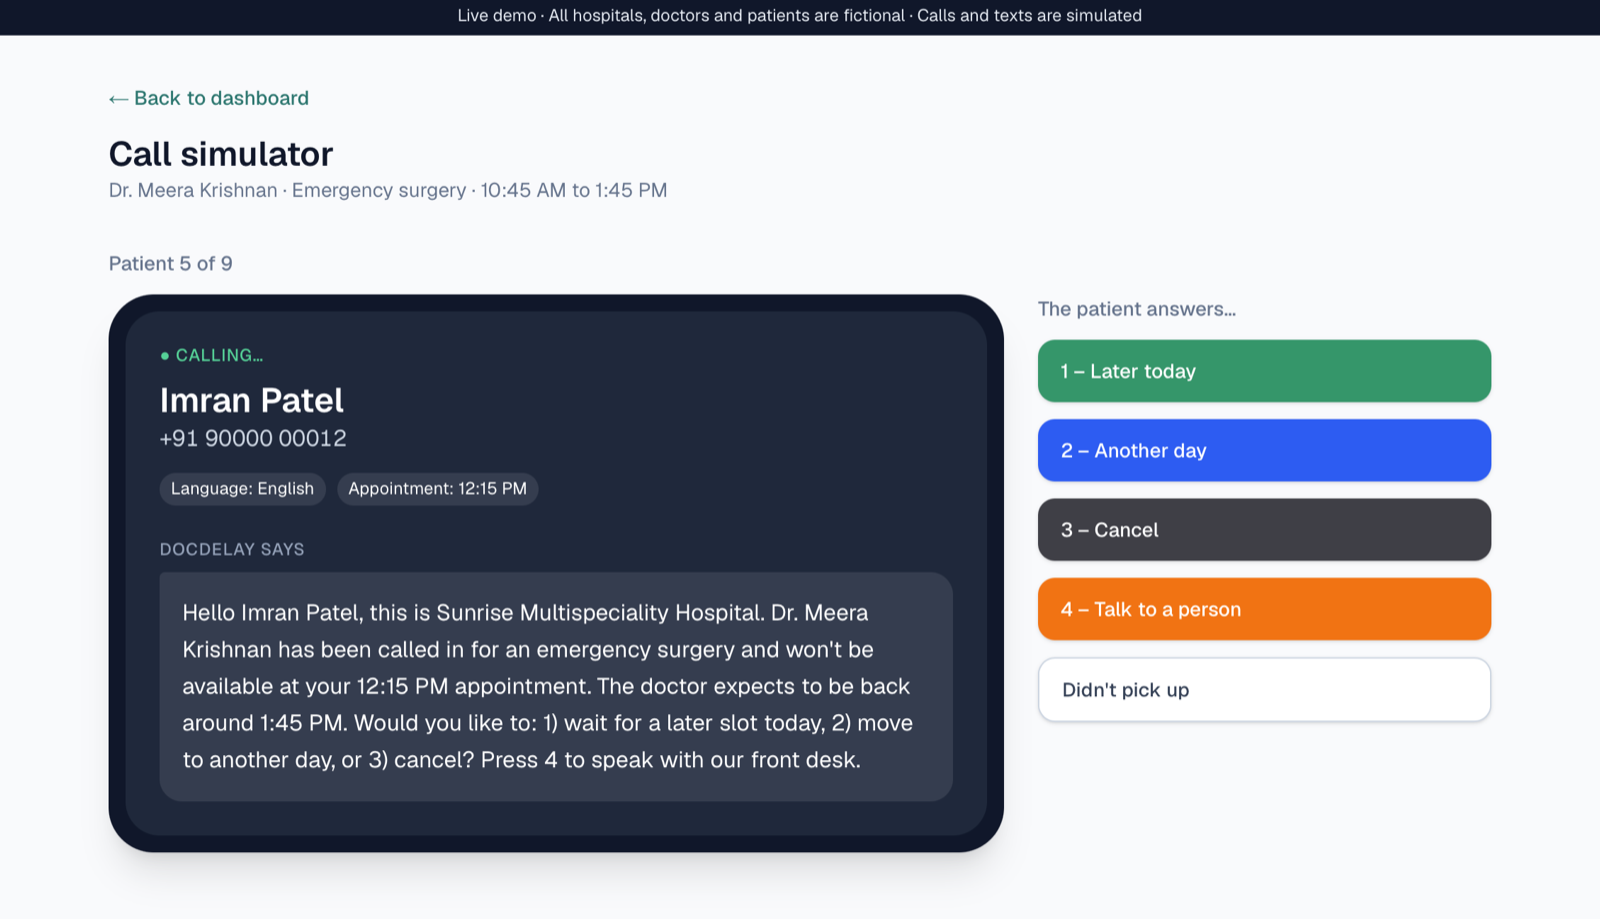
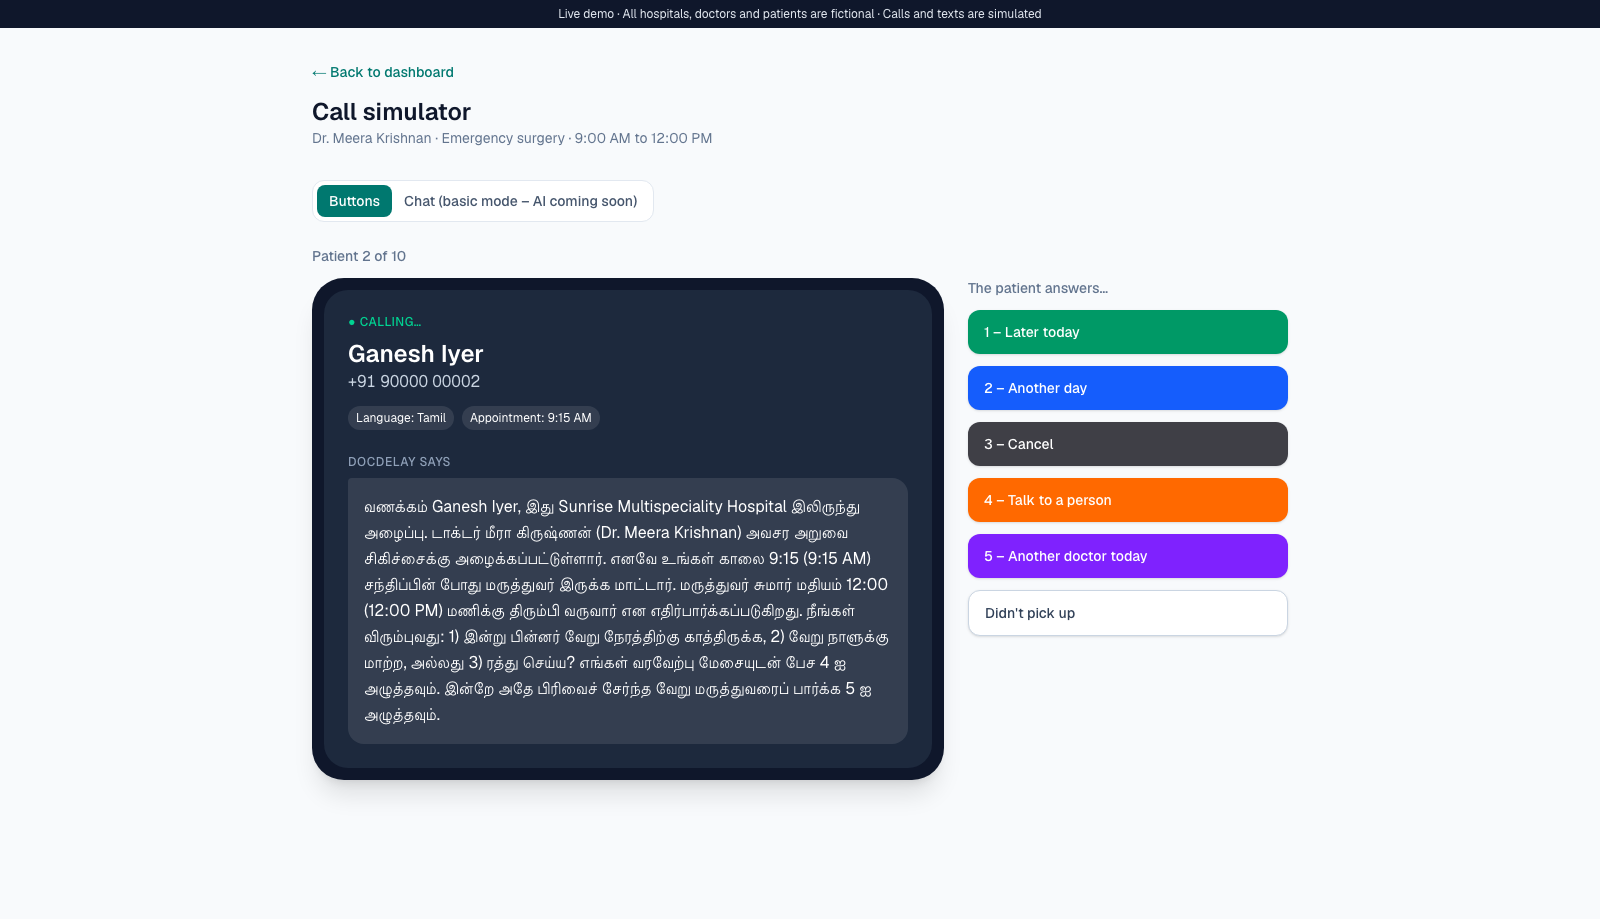
README screenshots retaken (4 doctors, demo clock, button 5); HANDOFF: where things stand, 2 Oct

diff --git a/HANDOFF.md b/HANDOFF.md
@@ -1,6 +1,6 @@
 # DocDelay — Handoff
 
-Last updated: 1 Oct 2026. Read this first when starting a new chat or a new Claude Code session.
+Last updated: 2 Oct 2026. Read this first when starting a new chat or a new Claude Code session.
 
 ## What DocDelay is
 
@@ -37,16 +37,16 @@ An add-on for hospital systems that reschedules a doctor's patients when the doc
 | claude-code-setup plugin | Installed |
 | Test-after-edit hook (runs `npm test` after Claude edits `src/`) | Done (1 Oct) |
 | /wrap-up skill | Next |
-| "5 – Another doctor today" (Buttons only, FRD 5.4), with Dr. Karthik Raman as a second cardiologist | Done (1 Oct) |
-| Fixed demo clock: 9:00 AM on India's date (`CLOCK_MODE` in `src/lib/clock.ts`, kept on "demo") | Done (1 Oct) |
-| Tour step 6 of 9: "Another doctor, same day" (Buttons, press 5, pick a time with Dr. Karthik) | Done (1 Oct) |
-| Tour step 2 on small phones: pop-up now sits above the tour card; checked at 4 phone sizes in Chrome and Safari engines | Done (1 Oct) |
-| Retake README screenshots (4 doctors, demo clock badge, button 5) | Next |
-| Optional: rebuild the video without the send-time blanking (not needed any more: "Sent" times now show the demo time, 9:00 AM) | Next (optional) |
+| "5 – Another doctor today" (FRD 5.4), Buttons + chat (basic and AI mode), with Dr. Karthik Raman as a second cardiologist | Done, live (2 Oct) |
+| Fixed demo clock: 9:00 AM on India's date (`CLOCK_MODE` in `src/lib/clock.ts`, kept on "demo") | Done, live (1 Oct) |
+| Tour step 6 of 9: "Another doctor, same day" (Buttons, press 5, pick a time with Dr. Karthik) | Done, live (1 Oct) |
+| Tour step 2 on small phones: pop-up now sits above the tour card; checked at 4 phone sizes in Chrome and Safari engines | Done, live (1 Oct) |
+| README screenshots retaken (4 doctors, demo clock badge, button 5) | Done (2 Oct) |
 | Add the video to the README and portfolio | Next |
-| Another doctor today in chat (basic and AI mode), with a suggested-phrase button | Done (1 Oct) — real-AI check cost $0.0907 |
-| AI can't show a confirmation it didn't make (fixed-wording rule enforced in code) | Done (2 Oct) — Tamil real-AI check cost $0.0215 |
-| After Another doctor in chat is done: plan the WhatsApp channel (alongside calls and texts, not replacing them). Open decisions are in the FRD backlog. | Next |
+| Another doctor in chat: suggested-phrase button; basic mode's "another doctor" reading wins over the AI | Done, live (2 Oct) — real-AI checks cost $0.1122 in total |
+| Confirmation guard: an AI reply that sounds like a confirmation with nothing booked is never shown | Done, live (2 Oct) |
+| Demo video v2 (4 doctors, demo clock, another doctor; no send-time blanking needed) | Next |
+| Then: plan the WhatsApp channel (alongside calls and texts, not replacing them). Open decisions are in the FRD backlog. | Next |
 | Phase 2: clinic interviews | After README/portfolio |
 | Real calls to my own phone | After the 4 AI backlog items |
 | Add the real-call clip to the video | After real calls |
